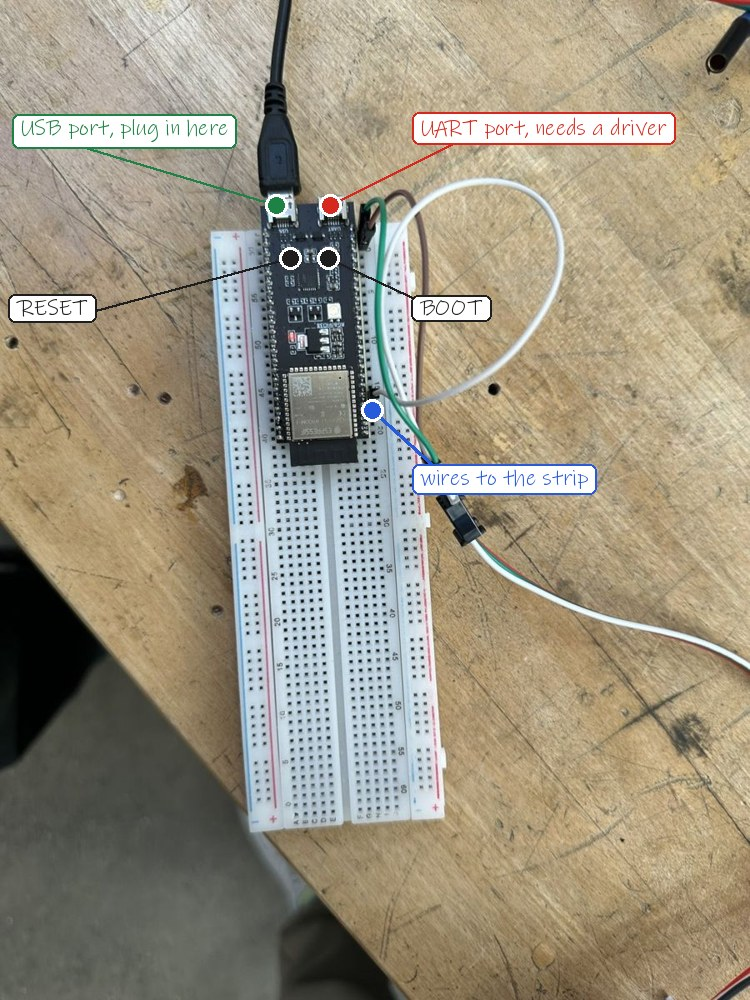
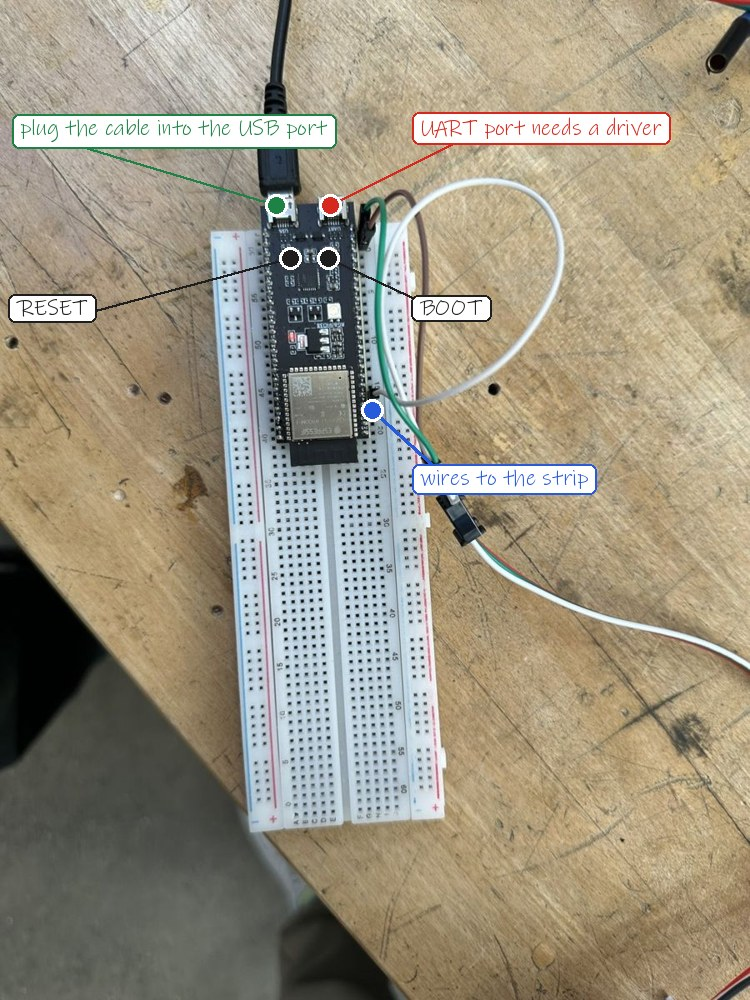
Take names and commas out of the light strip labels

Changed region(s): [[0.0307, 0.093, 0.46, 0.155], [0.7053, 0.093, 0.92, 0.155]]

diff --git a/docs/issue-figures/lights_overlay.py b/docs/issue-figures/lights_overlay.py
@@ -27,7 +27,7 @@ def open_photo(name, size):
 
 # 37: the first test on the bench
 im = open_photo('01-first-60-leds-lit.jpg', (1000, 750)); d = ImageDraw.Draw(im)
-point(d, (150, 222), (20, 290), 'DIN end, wires from the ESP32', GREEN)
+point(d, (150, 222), (20, 290), 'DIN end with wires from the ESP32', GREEN)
 point(d, (110, 60), (230, 40), 'ESP32-S3 boards', BLUE)
 label(d, (330, 430), 'first 60 LEDs lit', ORANGE, SMALL)
 label(d, (20, 690), 'NUM_LEDS was 60 on the first upload', INK, SMALL)
@@ -35,22 +35,22 @@ im.save(os.path.join(out, '37-strip-first-test.jpg'), quality=88)
 
 # 38: the board on the breadboard
 im = open_photo('03-board-on-breadboard.jpg', (750, 1000)); d = ImageDraw.Draw(im)
-point(d, (276, 205), (20, 120), 'USB port, plug in here', GREEN)
-point(d, (330, 205), (420, 120), 'UART port, needs a driver', RED)
+point(d, (276, 205), (20, 120), 'plug the cable into the USB port', GREEN)
+point(d, (330, 205), (420, 120), 'UART port needs a driver', RED)
 point(d, (290, 258), (20, 300), 'RESET', INK)
 point(d, (328, 258), (420, 300), 'BOOT', INK)
 point(d, (372, 410), (420, 470), 'wires to the strip', BLUE)
 im.save(os.path.join(out, '38-board-on-breadboard.jpg'), quality=88)
 
-# 39: Jack's two soldered strips
+# 39: the two soldered strips
 im = open_photo('04-two-soldered-pieces.jpg', (750, 1000)); d = ImageDraw.Draw(im)
-point(d, (230, 450), (20, 380), "Jack's two strips", ORANGE)
+point(d, (230, 450), (20, 380), 'two soldered strips', ORANGE)
 point(d, (590, 860), (380, 930), 'plugs', BLUE)
 im.save(os.path.join(out, '39-two-soldered-strips.jpg'), quality=88)
 
 # 40: one cut strip
 im = open_photo('07-cut-36-led-piece.jpg', (1000, 750)); d = ImageDraw.Draw(im)
-label(d, (330, 520), 'one strip, 36 LEDs, 25 cm', ORANGE)
+label(d, (330, 520), 'one strip with 36 LEDs in 25 cm', ORANGE)
 point(d, (918, 412), (640, 300), 'cut on the copper pads', RED, SMALL)
 im.save(os.path.join(out, '40-cut-strip.jpg'), quality=88)
 
